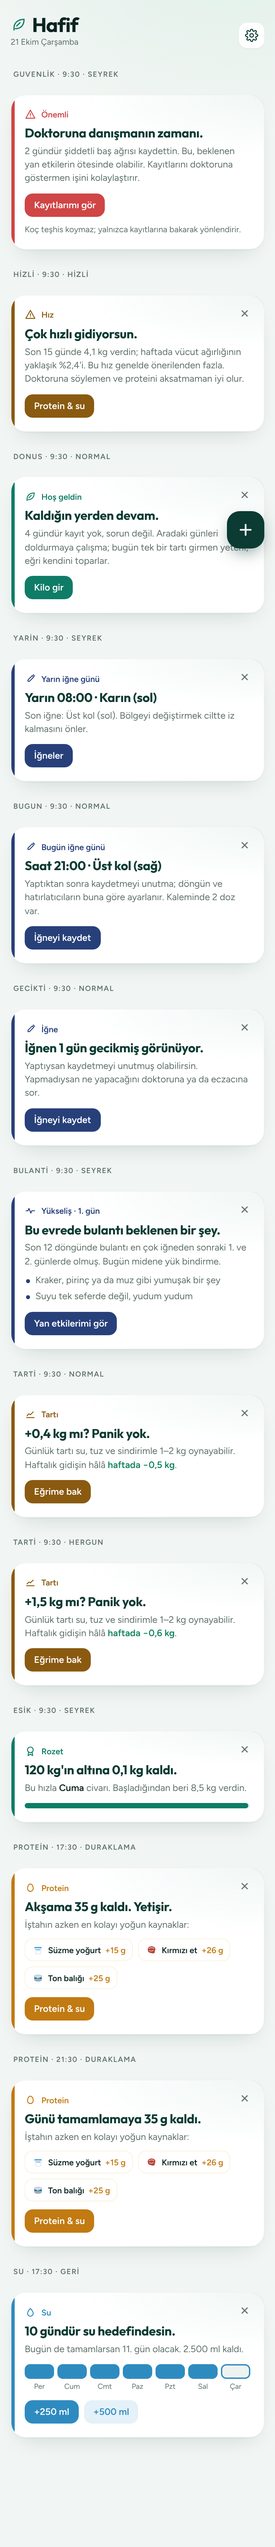
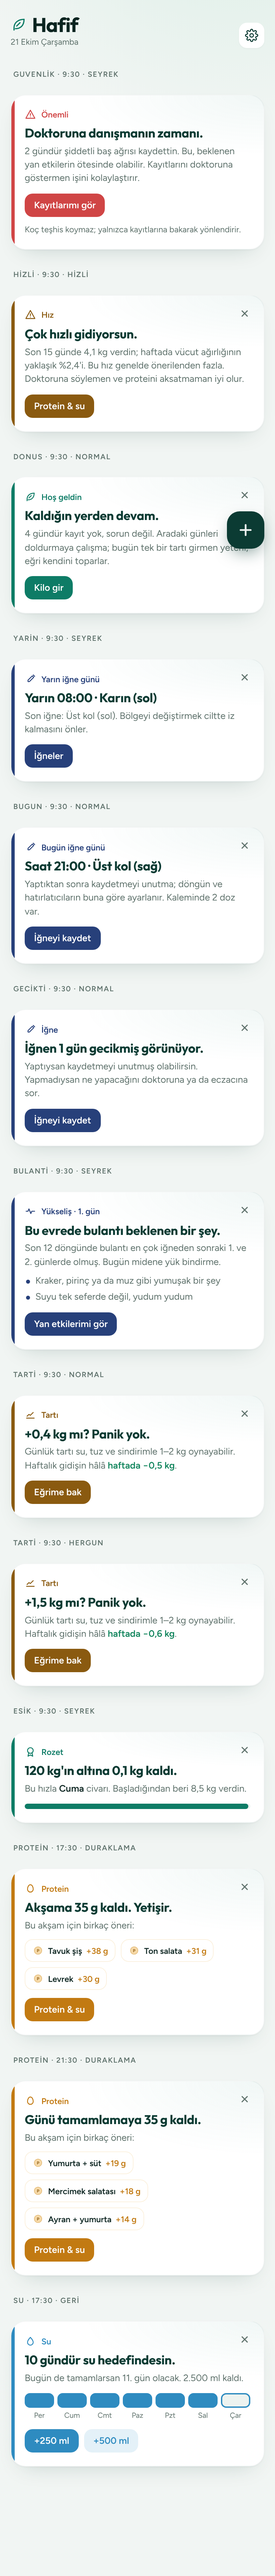
2.0: Türk mutfağından öğün önerileri (Ne yesem?) ve koç kartında öğünler
Claude-Session: https://claude.ai/code/session_01ERT3WxHgY3bECbR2LgZad1

diff --git a/www/index.html b/www/index.html
@@ -659,6 +659,9 @@ label.drow{flex-direction:row;font-size:14px;font-weight:500;margin:0}
 .kband .lbl{position:relative;height:32px;margin-top:6px;font-size:11.5px;color:rgba(255,255,255,.65)}.kband .lbl span{position:absolute;transform:translateX(-50%);white-space:nowrap}.kband .lbl span.g{top:16px;color:rgba(255,255,255,.5)}
 .korcard{display:flex;flex-direction:column;gap:12px}.korst{display:flex;align-items:baseline;gap:8px}.korst b{font:700 22px var(--f-display)}.korst span{font-size:12.5px;color:var(--muted)}
 .kornote{display:flex;flex-direction:column;gap:6px;font-size:12.5px;color:var(--muted)}.kornote textarea{font:14px var(--f-body);color:var(--fg);background:var(--sunk);border:1px solid var(--line);border-radius:12px;padding:10px;resize:vertical}
+.meals{display:flex;flex-direction:column;gap:8px;margin-top:4px}.mealh{display:flex;justify-content:space-between;align-items:center}.mealh .linkbtn{margin:0;font-size:12.5px}
+.meal{display:flex;align-items:center;justify-content:space-between;gap:10px;text-align:left;border:1px solid var(--line);background:var(--surface);border-radius:14px;padding:10px 12px;cursor:pointer;color:var(--fg);font:inherit}
+.meal span{display:flex;flex-direction:column;min-width:0}.meal b{font-size:14px;font-weight:600}.meal small{font-size:12px;color:var(--muted)}.meal em{font:700 14px var(--f-body);font-style:normal;color:var(--protein);white-space:nowrap}.meal:active{transform:scale(.98)}
 .exbtn{background:var(--shot-soft);color:var(--shot);box-shadow:none;display:flex;align-items:center;justify-content:center;gap:8px}
 .exdone{display:flex;align-items:center;gap:8px;flex-wrap:wrap;background:var(--shot-soft);color:var(--shot);border-radius:14px;padding:10px 12px;font:600 14px var(--f-body)}.exdone>span{flex:1;min-width:110px}
 .exmin{display:flex;align-items:center;gap:4px}.exmin button{border:0;border-radius:99px;background:var(--surface);color:var(--fg);font:600 12.5px var(--f-body);padding:5px 9px;cursor:pointer}.exmin button[aria-pressed="true"]{background:var(--shot);color:#fff}.exmin small{font-size:11px;color:var(--shot)}
@@ -1474,10 +1477,10 @@ function coachCards(){
   const pg=pGoal(),r=dayRec(td),rem=pg-(r.p||0);
   if(hr>=16&&rem>=15&&(r.p||0)<pg*.75){
     const use={};for(const d of Object.values(S.daily||{}))for(const x of d.log||[])if(x[1]==="p"&&x[3])use[x[3]]=(use[x[3]]||0)+1;
-    const ch=FOODS.filter(f=>f.g>=10&&f.g<=rem+10).sort((a,b)=>(use[b.k]||0)-(use[a.k]||0)||b.g-a.g).slice(0,3);
+    const ch=mealPick(rem,0).L.map(m=>({k:"m:"+m.id,n:m.s,g:m.g}));
     const hic=!(r.p>0),R=Math.round(rem);
     out.push({id:"protein",c:"protein",ic:"yumurta",k:"Protein",t:hic?"Bugün protein kaydı yok.":hr>=20?`Günü tamamlamaya ${R} g kaldı.`:`Akşama ${R} g kaldı.${rem<=45?" Yetişir.":""}`,
-      b:hic?"Yediklerini eklemeyi unutmuş olabilirsin. Henüz yemediysen yoğun bir kaynakla başla:":rem>60?"Hepsine yetişmek zorunda değilsin; yarısı bile fark yaratır. En kolayı yoğun kaynaklar:":"İştahın azken en kolayı yoğun kaynaklar:",ch:ch.map(f=>[(FEM[f.k]||["🍽"])[0],f.n,f.g,f.k]),a:[["Protein & su","go:besin"]]})}
+      b:hic?"Yediklerini eklemeyi unutmuş olabilirsin. Henüz yemediysen şunlardan biriyle başla:":rem>60?"Hepsine yetişmek zorunda değilsin; yarısı bile fark yaratır. Birkaç öneri:":"Bu akşam için birkaç öneri:",ch:ch.map(f=>["",f.n,f.g,f.k]),a:[["Protein & su","go:besin"]]})}
   // 9) su serisi (öğleden sonra, en az 3 gün)
   const wg=wGoal();let st=0;for(let i=1;i<=60;i++){if((dayRec(addDays(td,-i)).w||0)>=wg)st++;else break}
   if(st>=3&&hr>=12&&(r.w||0)<wg){let best=0,run=0;for(let i=60;i>st;i--){if((dayRec(addDays(td,-i)).w||0)>=wg){run++;best=Math.max(best,run)}else run=0}
@@ -1537,7 +1540,7 @@ function coachAct(a,id){
   else if(k==="edit")openSheet("weight",v);
   else if(k==="go"){selPhase=null;ANIM=true;tab=v;render();window.scrollTo(0,0)}
   else if(k==="water"){const r=ensureDay(td),amt=+v,from=r.w;r.w+=amt;r.log.push([Date.now(),"w",amt]);save();toast(from<wGoal()&&r.w>=wGoal()?"Su hedefi tamam":`+${amt} ml su`);render()}
-  else if(k==="prot"){const f=FOODS.find(x=>x.k===v);if(f){addProtein(f.g,f.k);toast(`+${f.g} g protein`);render()}}
+  else if(k==="prot"){const f=FOODS.find(x=>x.k===v)||(v.slice(0,2)==="m:"?mealOf(v):null);if(f){addProtein(f.g,f.k);toast(`+${f.g} g protein`);render()}}
 }
 function vOzetMain(){
   const w=sortedW(), s=sortedS(), P=S.profile;
@@ -2023,7 +2026,7 @@ function pListHtml(){
   const G={};for(const x of it){const k=x[3]||"_";(G[k]=G[k]||[]).push(x)}
   const rows=Object.entries(G).sort((a,b)=>b[1][b[1].length-1][0]-a[1][a[1].length-1][0]);
   const hm=ts=>new Date(ts).toLocaleTimeString("tr-TR",{hour:"2-digit",minute:"2-digit"});
-  const html=rows.slice(0,pAll?99:4).map(([k,xs])=>{const f=FOODS.find(y=>y.k===k),last=xs[xs.length-1],g=xs.reduce((a,x)=>a+x[2],0),n=xs.length;
+  const html=rows.slice(0,pAll?99:4).map(([k,xs])=>{const f=foodOf(k),last=xs[xs.length-1],g=xs.reduce((a,x)=>a+x[2],0),n=xs.length;
     const det=!f?(n>1?n+" giriş":"elle girildi"):f.pick?n+" "+(f.u||"adet"):n>1?(f.d==="1 adet"?n+" adet":n+" × "+f.d):f.d;
     return `<div class="pli"><span class="ic">${icon(k==="_"?"genel":k,28)}</span><div class="tx"><b>${f?f.n:"Diğer"}</b><small>${det} · ${n>1?"son ":""}${hm(last[0])}</small></div><em>+${ml(g)} g</em><button type="button" class="x" data-pdel="${last[0]}" aria-label="${n>1?"Birini sil":"Sil"}">${n>1?"−":"×"}</button></div>`}).join("");
   return html+(rows.length>4?`<button type="button" class="linkbtn" id="pMore" style="align-self:center;margin-top:6px">${pAll?"Daha az göster":`+${rows.length-4} yiyecek daha`}</button>`:"");
@@ -2080,7 +2083,66 @@ function weekHtml(){
   const row=(k,lbl,col)=>`<div class="wk2r"><span class="wk2l" style="color:${col}">${lbl}</span><div class="wk2b">${D.map(x=>`<i style="height:${Math.max(6,x[k])}%;background:${x[k]>=100?col:`color-mix(in oklab,${col} 40%,var(--surface))`}"></i>`).join("")}</div></div>`;
   return `${row("p","Protein","var(--protein)")}${row("w","Su","var(--water)")}<div class="wk2r"><span></span><div class="wk2d">${D.map(x=>`<span class="${x.i===0?"on":""}">${x.i===0?"Bugün":toD(x.d).toLocaleDateString("tr-TR",{weekday:"short"}).slice(0,3)}</span>`).join("")}</div></div>`;
 }
-function undoText(){const r=dayRec(today()),l=r.log[r.log.length-1];if(!l)return "";if(l[1]==="w")return `Son girişi geri al (+${l[2]} ml su)`;const f=FOODS.find(x=>x.k===l[3]);return `Son girişi geri al (${f?f.n+", ":""}+${l[2]} g protein)`}
+function undoText(){const r=dayRec(today()),l=r.log[r.log.length-1];if(!l)return "";if(l[1]==="w")return `Son girişi geri al (+${l[2]} ml su)`;const f=foodOf(l[3]);return `Son girişi geri al (${f?f.n+", ":""}+${l[2]} g protein)`}
+/* Türk mutfağından öğün önerileri: kalan proteine, saate ve iştaha göre 3 öneri. Değerler tipik bir porsiyon için yaklaşık.
+   t: k kahvaltı · o öğle/akşam · a ara/hafif; y: yumuşak ya da sıvı (iştah az, bulantı varken öne çıkar) */
+const MEALS=[
+ {id:"menemen",n:"Menemen + beyaz peynir",s:"Menemen",p:"2 yumurta · 50 g peynir",g:19,t:"k"},
+ {id:"omlet",n:"Kaşarlı omlet",s:"Omlet",p:"2 yumurta · 30 g kaşar",g:19,t:"k"},
+ {id:"sucuklu",n:"Sucuklu yumurta",s:"Sucuklu yumurta",p:"2 yumurta · 40 g sucuk",g:20,t:"k"},
+ {id:"yulaf",n:"Süzme yoğurt, yulaf ve ceviz",s:"Yoğurtlu yulaf",p:"200 g yoğurt · 40 g yulaf",g:25,t:"ka",y:1},
+ {id:"lortost",n:"Lorlu tam buğday tost",s:"Lorlu tost",p:"80 g lor · 2 dilim",g:16,t:"k"},
+ {id:"haslama",n:"Haşlanmış yumurta + süt",s:"Yumurta + süt",p:"2 yumurta · 1 bardak",g:19,t:"ka",y:1},
+ {id:"tavuksis",n:"Tavuk şiş + bulgur pilavı",s:"Tavuk şiş",p:"1 porsiyon",g:38,t:"o"},
+ {id:"kofte",n:"Izgara köfte + salata",s:"Izgara köfte",p:"4–5 köfte",g:27,t:"o"},
+ {id:"mercorba",n:"Mercimek çorbası + süzme yoğurt",s:"Mercimek + yoğurt",p:"1 kase · 150 g",g:24,t:"oa",y:1},
+ {id:"fasulye",n:"Kuru fasulye + cacık",s:"Fasulye + cacık",p:"1 porsiyon",g:19,t:"o"},
+ {id:"nohut",n:"Etli nohut + yoğurt",s:"Etli nohut",p:"1 porsiyon",g:24,t:"o"},
+ {id:"tonsalata",n:"Ton balıklı salata + yumurta",s:"Ton salata",p:"1 kutu · 1 yumurta",g:31,t:"oa"},
+ {id:"somon",n:"Fırında somon + sebze",s:"Somon",p:"150 g",g:33,t:"o"},
+ {id:"levrek",n:"Izgara levrek + roka",s:"Levrek",p:"1 porsiyon",g:30,t:"o"},
+ {id:"tavuksote",n:"Tavuk sote + yoğurt",s:"Tavuk sote",p:"1 porsiyon",g:33,t:"o"},
+ {id:"tavukbut",n:"Fırında tavuk but",s:"Tavuk but",p:"2 adet",g:30,t:"o"},
+ {id:"etsote",n:"Et sote + piyaz",s:"Et sote",p:"120 g et",g:32,t:"o"},
+ {id:"ispanak",n:"Kıymalı ıspanak + yoğurt",s:"Kıymalı ıspanak",p:"1 porsiyon",g:18,t:"o",y:1},
+ {id:"manti",n:"Yoğurtlu mantı",s:"Mantı",p:"1 porsiyon",g:21,t:"o"},
+ {id:"lahmacun",n:"Lahmacun + ayran",s:"Lahmacun + ayran",p:"1 adet · 1 bardak",g:21,t:"o"},
+ {id:"karniyarik",n:"Karnıyarık + yoğurt",s:"Karnıyarık",p:"1 porsiyon",g:18,t:"o"},
+ {id:"tavukcorba",n:"Tavuk suyu çorba (etli)",s:"Tavuk çorbası",p:"1 büyük kase",g:15,t:"oa",y:1},
+ {id:"ezogelin",n:"Ezogelin çorbası + yoğurt",s:"Ezogelin + yoğurt",p:"1 kase · 150 g",g:14,t:"oa",y:1},
+ {id:"ayranyum",n:"Ayran + haşlanmış yumurta",s:"Ayran + yumurta",p:"1 büyük bardak · 1 yumurta",g:14,t:"ak",y:1},
+ {id:"yogurtbal",n:"Süzme yoğurt + bal",s:"Süzme yoğurt",p:"150 g",g:15,t:"ak",y:1},
+ {id:"kefir",n:"Kefir",s:"Kefir",p:"1 büyük bardak",g:9,t:"ak",y:1},
+ {id:"lordomates",n:"Lor peyniri + domates",s:"Lor + domates",p:"100 g",g:12,t:"ak",y:1},
+ {id:"shakemuz",n:"Protein shake + muz",s:"Shake + muz",p:"1 ölçek",g:26,t:"ak",y:1},
+ {id:"yesilmer",n:"Yeşil mercimek salatası + yoğurt",s:"Mercimek salatası",p:"1 kase · 100 g",g:18,t:"oa"}
+];
+const mealOf=k=>{const m=k&&k.slice(0,2)==="m:"&&MEALS.find(x=>x.id===k.slice(2));return m?{k,n:m.n,d:m.p,g:m.g}:null};
+const foodOf=k=>FOODS.find(x=>x.k===k)||mealOf(k);
+let mealOff=0;
+function mealPick(rem,off){
+  const h=new Date().getHours(),slot=h<11?"k":h>=21?"a":"o",cap={k:30,o:40,a:20}[slot],tg=Math.max(10,Math.min(rem,cap));
+  const ap=(S.app||{})[today()],se=seOn(today()),easy=!!(ap&&ap.i!=null&&ap.i<=2)||(se.bulanti||0)>=1;
+  let L=MEALS.filter(m=>m.t.includes(slot));if(easy){const y=L.filter(m=>m.y);if(y.length>=3)L=y}
+  /* günden güne değişsin: tarihten türeyen küçük bir karıştırma; "Başka öner" kaydırır */
+  const seed=[...today()].reduce((a,c)=>a*31+c.charCodeAt(0)|0,7),j=m=>(([...m.id].reduce((a,c)=>a*17+c.charCodeAt(0)|0,seed)>>>0)%7);
+  L=L.map(m=>({m,sc:Math.abs(m.g-tg)+(m.g>rem+12?8:0)+(m.id==="shakemuz"?6:0)+j(m)})).sort((a,b)=>a.sc-b.sc).map(x=>x.m);
+  const n=L.length,o=n?(off*3)%n:0;return {slot,easy,L:[...L.slice(o),...L.slice(0,o)].slice(0,3)};
+}
+function mealSec(){
+  const rem=Math.round(pGoal()-dayRec(today()).p);if(rem<10)return `<div id="mealSec" hidden></div>`;
+  const R=mealPick(rem,mealOff),lbl={k:"Kahvaltı için",o:new Date().getHours()<16?"Öğle için":"Akşam için",a:"Hafif bir şey"}[R.slot];
+  return `<div class="meals" id="mealSec"><div class="mealh"><span class="eyebrow" style="color:var(--protein)">Ne yesem? · ${lbl}</span><button type="button" class="linkbtn" id="mealMore">Başka öner</button></div>
+    ${R.easy?`<span class="muted" style="font-size:12.5px">İştahın az görünüyor; küçük ve yumuşak seçenekler.</span>`:""}
+    ${R.L.map(m=>`<button type="button" class="meal" data-meal="${m.id}"><span><b>${esc(m.n)}</b><small>${esc(m.p)}</small></span><em>+${m.g} g</em></button>`).join("")}
+    <span class="muted" style="font-size:11.5px">Değerler tipik bir porsiyon için yaklaşık; dokununca protein eklenir.</span></div>`;
+}
+function bindMeals(){
+  const sec=$("#mealSec");if(!sec)return;
+  const re=()=>{const y=scrollY;$("#mealSec").outerHTML=mealSec();bindMeals();scrollTo(0,y)};
+  const mm=$("#mealMore");if(mm)mm.addEventListener("click",()=>{mealOff++;re()});
+  sec.querySelectorAll("[data-meal]").forEach(b=>b.addEventListener("click",()=>{const m=MEALS.find(x=>x.id===b.dataset.meal);if(!m)return;addProtein(m.g,"m:"+m.id);toast(`+${m.g} g · ${m.s}`);mealOff=0;re()}));
+}
 function todayCard(){
   const r=dayRec(today()), pg=pGoal(), wg=wGoal();
   const chips=[50,100,200,250,330,500].map(v=>`<button type="button" data-wamt="${v}" aria-pressed="${v===wAmt}">${v}</button>`).join("");
@@ -2091,6 +2153,7 @@ function todayCard(){
       <div class="pscale"><span>her blok 5 g · renk yiyeceğe göre</span><span id="pLeft">${r.p>=pg?"Hedef tamam":ml(pg-r.p)+" g kaldı"}</span></div></div>
     <div class="plist" id="pList">${pListHtml()}</div>
     <button type="button" class="paddbtn" id="pOpen"><span style="font-size:22px;line-height:0">+</span> Protein ekle</button>
+    ${mealSec()}
     <div class="psugg">${pSugg().map(f=>`<button type="button" data-food="${f.k}">${icon(f.k,20)}${f.n.replace(" göğsü","").replace(" balığı","").replace("Kırmızı ","").replace("Protein shake","Shake")} <b>${f.g} g</b></button>`).join("")}</div>
     <div class="hr"></div>
     <div class="wsec">
@@ -2253,7 +2316,7 @@ function setWAmt(v){
 function bindToday(){
   const c=$("#todayCard"); if(!c)return;
   c.querySelectorAll("[data-food]").forEach(b=>b.addEventListener("click",()=>{const f=FOODS.find(x=>x.k===b.dataset.food);addProtein(fG(f),f.k);if(b.animate)b.animate([{transform:"scale(.92)"},{transform:"none"}],{duration:260})}));
-  $("#pOpen").addEventListener("click",openProteinSheet); bindPDel();
+  $("#pOpen").addEventListener("click",openProteinSheet); bindPDel(); bindMeals();
   c.querySelectorAll("[data-wsel]").forEach(b=>b.addEventListener("click",()=>setWAmt(+b.dataset.wsel)));
   $("#wAdd").addEventListener("click",addWater);
   $("#undo").addEventListener("click",undoLast);
